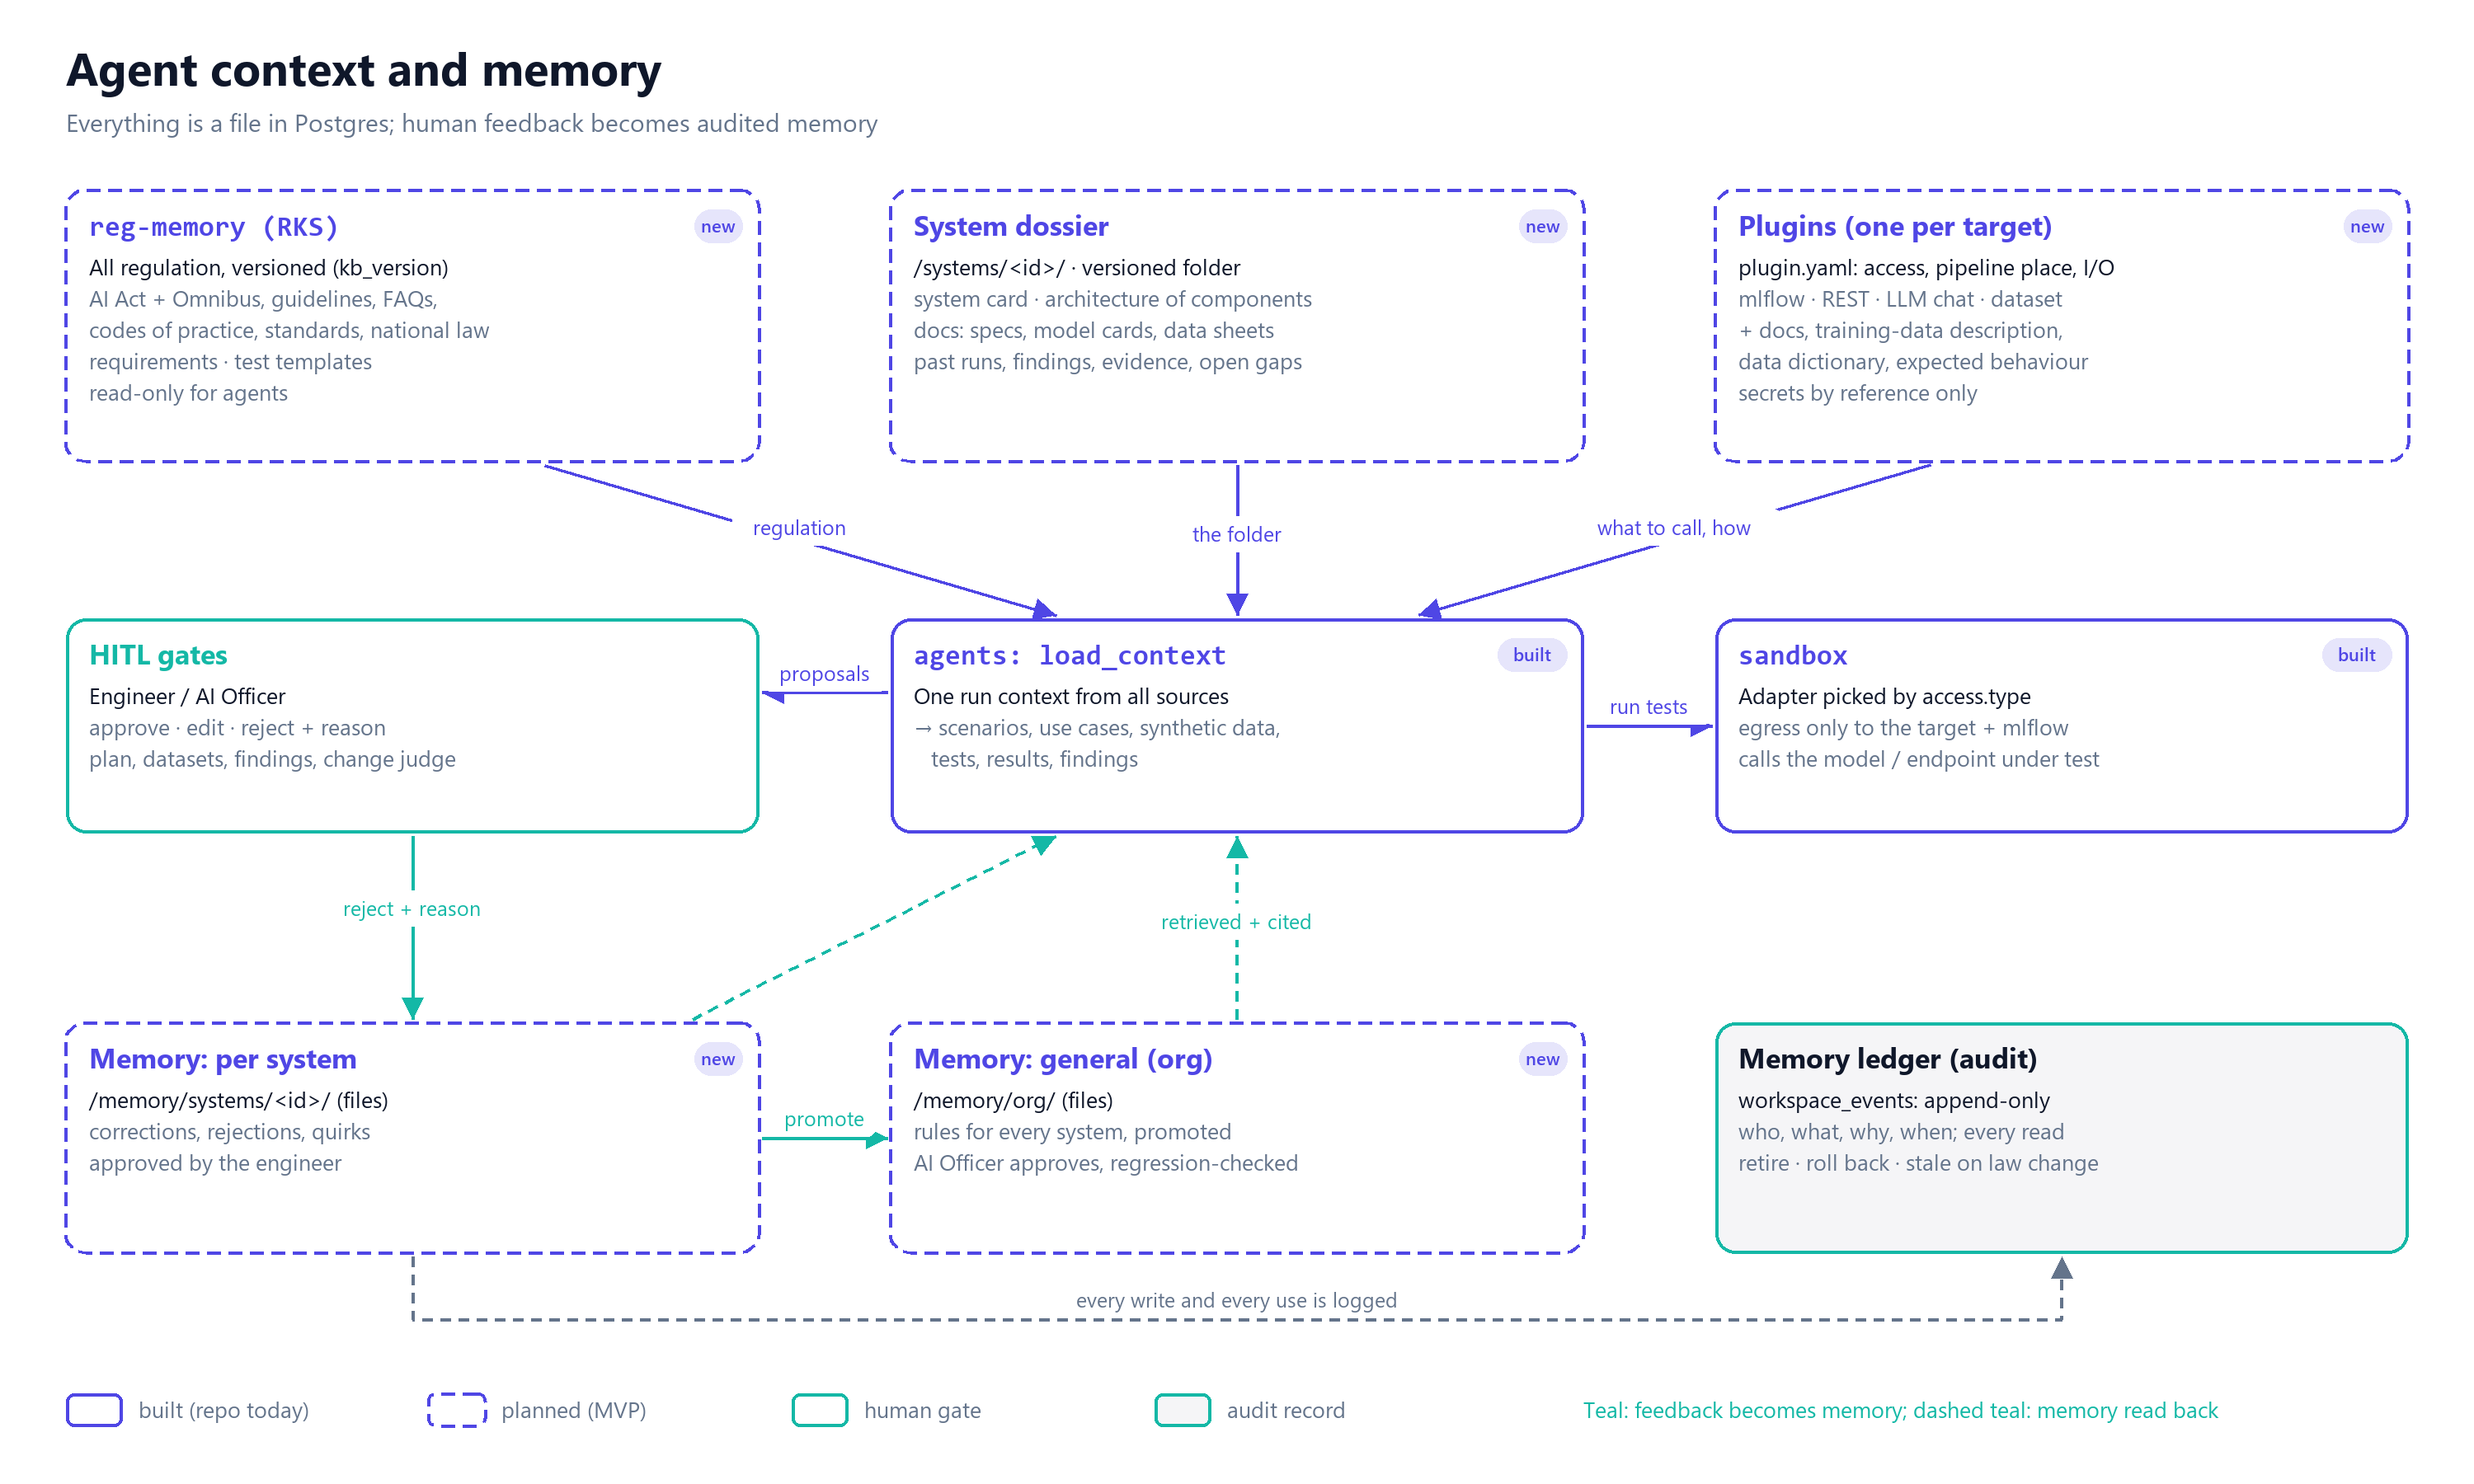
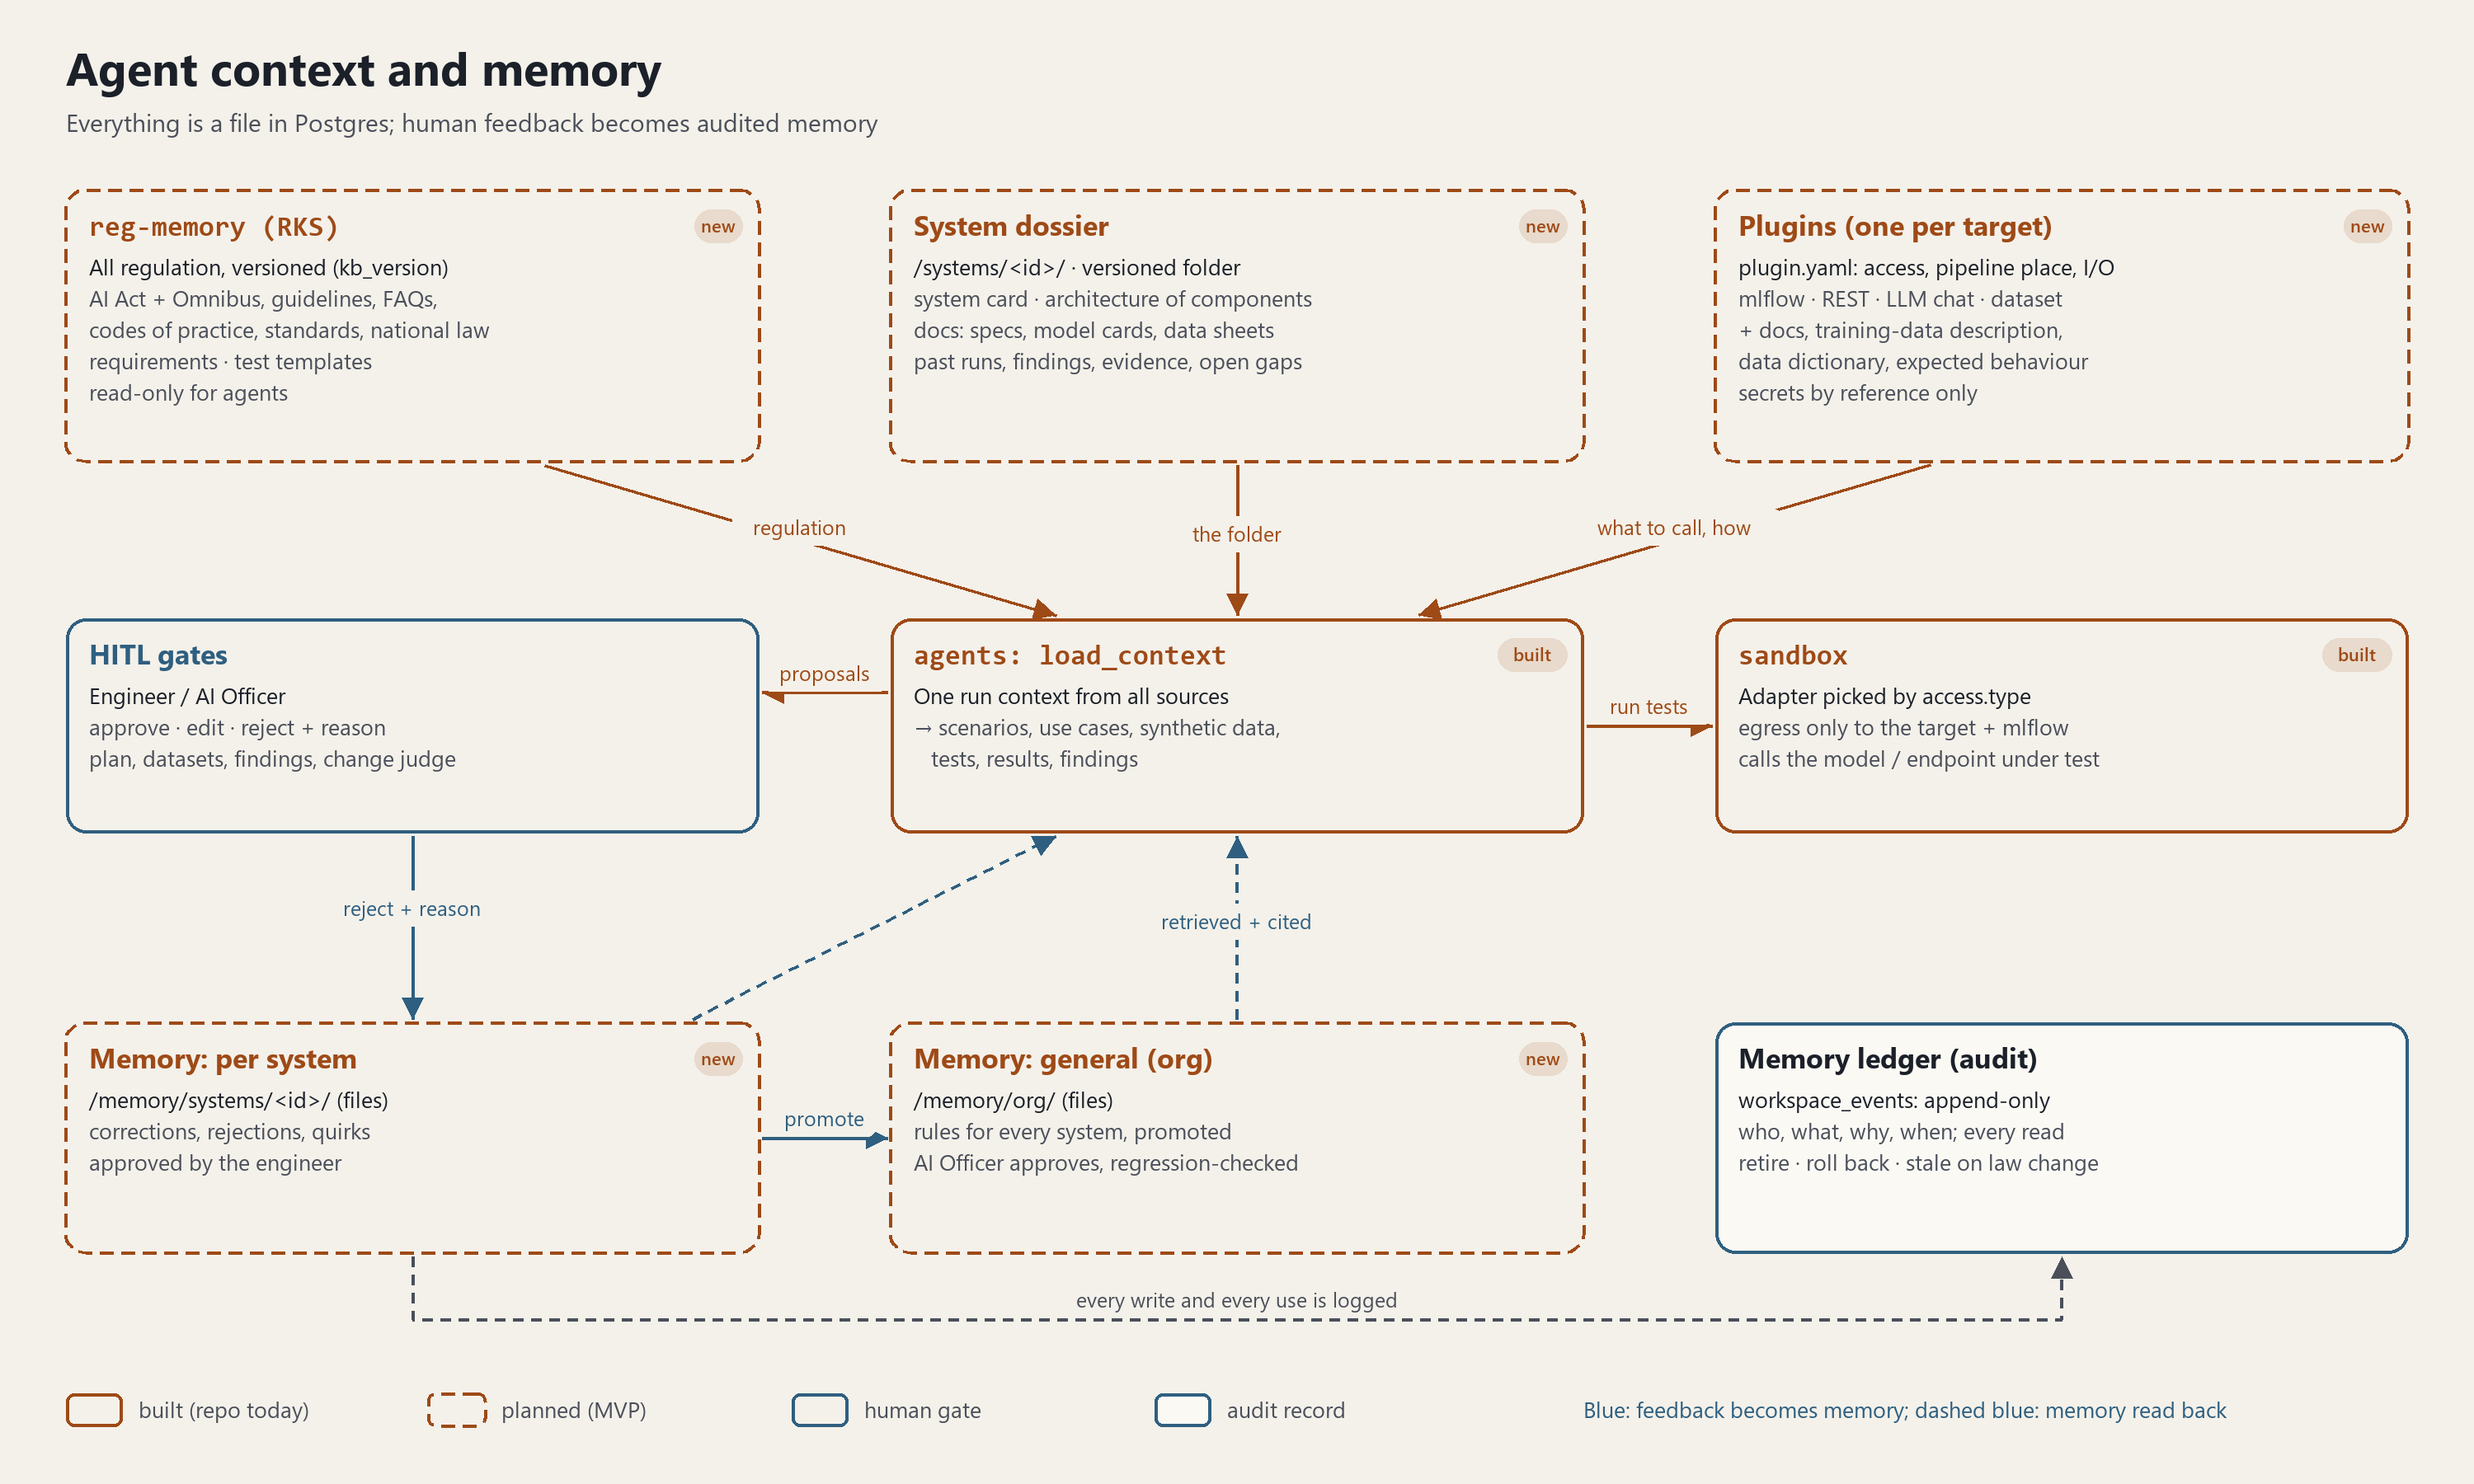
docs(architecture): rebuild the diagrams in the Mnamon palette

diff --git a/docs/architecture/diagrams/build.py b/docs/architecture/diagrams/build.py
@@ -426,7 +426,7 @@ def containers() -> Svg:
             ("store", "datastore"),
         ],
     )
-    s.text(960, 845, "Dashed teal arrows: every step is traced in Langfuse", 13.5, A)
+    s.text(960, 845, "Dashed blue arrows: every step is traced in Langfuse", 13.5, A)
     return s
 
 
@@ -959,7 +959,7 @@ def agent_context() -> Svg:
             ("output", "audit record"),
         ],
     )
-    s.text(960, 860, "Teal: feedback becomes memory; dashed teal: memory read back", 13.5, A)
+    s.text(960, 860, "Blue: feedback becomes memory; dashed blue: memory read back", 13.5, A)
     return s
 
 
